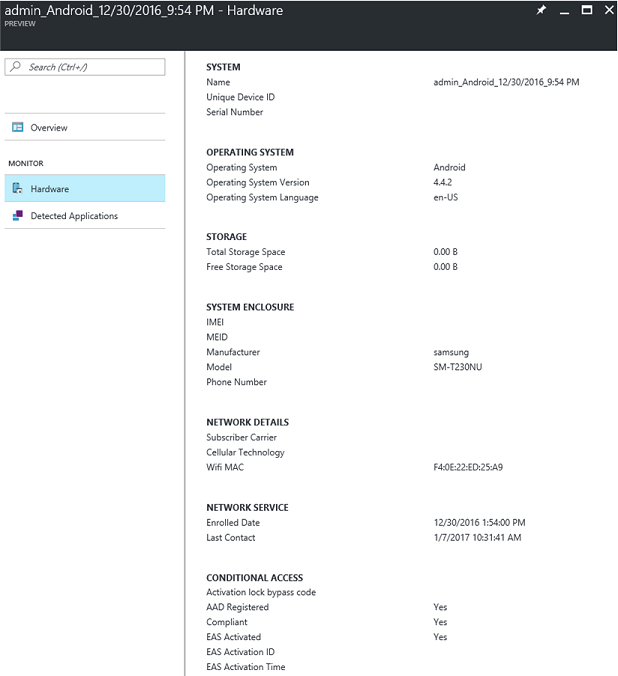
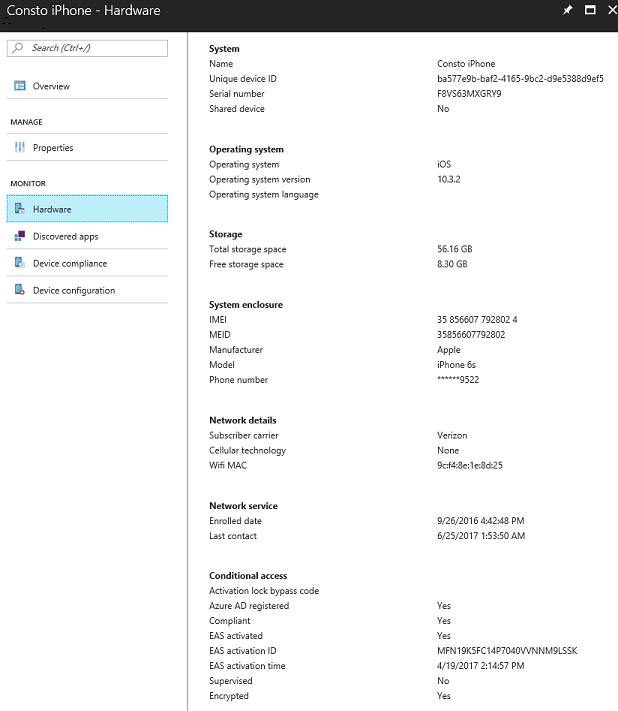
Updates for devices node

diff --git a/intune/device-inventory.md b/intune/device-inventory.md
@@ -8,7 +8,7 @@ keywords:
 author: robstackmsft
 ms.author: robstack
 manager: angrobe
-ms.date: 04/27/2017
+ms.date: 06/25/2017
 ms.topic: get-started-article
 ms.prod:
 ms.service: microsoft-intune
@@ -46,13 +46,14 @@ Now, choose one of the following:
 - **Manage** - Choose **All Devices** to see a list of all the devices you manage.
 	Select one of those devices in the list to open the <*device name*> **Overview** blade where you can select one of:
 	- **Overview**  - See general information about the device including information about it's name, the owner, whether it is a BYOD device, when it last checked-in, and more.
-
+	![Device overview](./media/device-overview.png)
 	- **Hardware** - See more detailed information about the device including it's free storage space, model and manufacturer, and more.
 	![Managed device hardware inventory](./media/hardware-inventory.png)
-	- **Detected Applications** - Displays a list of all apps that Intune found installed on the device.
-	![Detected applications node](./media/detected-applications.png)
+	- **Discovered apps** - Displays a list of all apps that Intune found installed on the device.
+	![Discovered apps node](./media/detected-applications.png)
+	- **Device compliance** - Displays the compliance state of all compliance policies that have been assigned to the device.
+	- **Device configuration** - Displays the compliance state of all device configuration policies that have been assigned to the device.
 - **Monitor** Choose **Device Actions** to see a list of device actions that have been performed on devices you manage and the current state of those actions.
-![Monitor device actions](./media/monitor-device-actions.png)
-
+- **Setup** > **TeamViewer Connector** - Let's you configure remote administration on devices using the TeamViewer software. For details, see [Provide remote assistance for Intune managed Android devices](/intune/device-profile-android-teamviewer).
 
 
